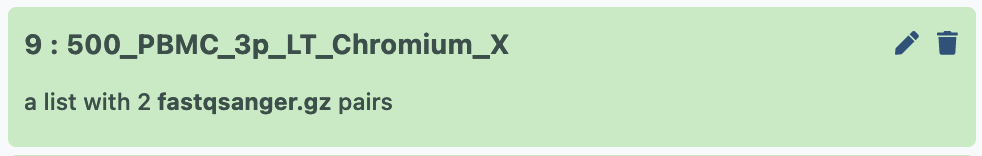
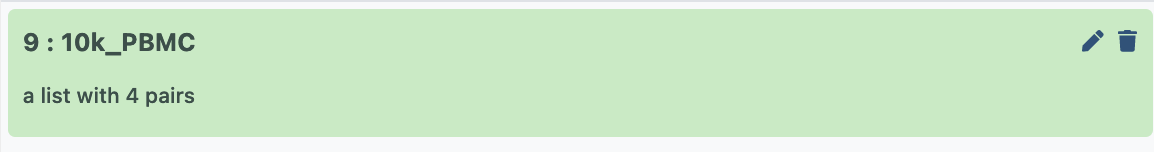
Fixing lowres screenshote, update for v1 of starsolo portion of workflow. cellranger / counts matrix placeholders

diff --git a/pages/scrnaseq_wf_guide.md b/pages/scrnaseq_wf_guide.md
@@ -34,9 +34,7 @@ For single sample experiments, there are streamlined workflows that runs all 3 s
 * **Single sample workflow (StarSOLO):** [import](https://usegalaxy.org.au/workflows/trs_import?trs_server=workflowhub.eu&trs_id=465&trs_version=2)  This workflow loads counts matrix, does some basic processing, suitable for a single sample.
 
 
-
 These workflows are all available on galaxy australia.
-
 
 # Background
 
@@ -45,6 +43,9 @@ There are many general resources online about the principals of single cell anal
 General information on **using galaxy** can be found on the [galaxy training website](https://training.galaxyproject.org/training-material/)
  
 For more general information about **single cell RNAseq processing on galaxy**; there are some excellent tutorials to be found here on the [galaxy training website scRNA section](https://training.galaxyproject.org/training-material/topics/single-cell/). The workflow implemented here is heavily influenced by the [Clustering 3kPBMCs with Scanpy tutorial](https://training.galaxyproject.org/training-material/topics/single-cell/tutorials/scrna-scanpy-pbmc3k/tutorial.html )
+
+
+{% include callout.html type="note" content="These workflows will not currently work with the fastq data from 10X's probe based 'Gene expression Flex' kits, only sequence based kits." %}
 
 # Analysis overview
 
@@ -70,7 +71,8 @@ When run in full, these workflows produce the following main outputs
 
 This diagram shows how the different workflows work together - the choice depends on whether you have a single or multiple samples, or are using CellRanger or StarSOLO. 
 
-![workflow options](./images/workflow_options.png)
+{% include image.html file="/workflow_options.png" max-width="6" %}
+
 
 ## Prepare your fastq inputs
 
@@ -87,23 +89,23 @@ You may also have I1 and I2 fastq datasets, but these are indicies not used in t
 
 1. Load the _R1 and _R2 fastq files into your galaxy history. See [guide to loading data](https://galaxyproject.org/support/loading-data/) for details.
 
-2. Select the fastq files that make up one biological sample. Typically this may be 2 files (R1 and R2), in this case, it is 2. 
+2. Select the fastq files that make up one biological sample. Typically this may be 2 files (R1 and R2), in this case, there are 4. 
 
     a. Click the 'tick in a box' select files button at the top of the history (dataset) panel.
     b. Checkboxes appear for all history items - check the specific files needed.
-    c. There will be a dropdown button at the top of the history panel - 'x of y Selected' - hit this, and select 'Build list of dataset pairs' 
+    c. There will be a dropdown button at the top of the history panel - 'selected' - hit this, and select 'Build list of dataset pairs' 
 
 ![Selecting fastqs for collection](./images/pair_collection_fastq_select.png)
 
-3. This brings up a new window to indicate the forward and reverse reads. In this case, we need to update the 'Forward' box to '_R1' and the reverse to '_R2'. These identifiers are then found in the filenames.
+3. This brings up a new window to indicate the forward and reverse reads. It may initially say that it cannot create any pairs. In this case, we need to update the 'Forward' box to '_R1' and the reverse to '_R2'. These identifiers are then found in the filenames.
 
 ![Pairing the collection](pair_collection_pairing.png)
 
-4. Hit 'pair all samples' and now they are highlighed green as below.
+4. Hit 'auto-pair' and now they are highlighed green as below.
 
 ![Paired collection](pair_collection_paired.png)
 
-5. Hit 'create collection', and now a paired collection will be visible in your history as below;
+5. Give it a sensible name, then hit 'create collection', and now that paired collection will be visible in your history as below;
 ![collection in history](fastqcollection.png)
 
 
@@ -139,7 +141,7 @@ You can supply links to that data directly to a galaxy history via `upload data 
 
 2. Import the **Single sample workflow (StarSOLO):** (listed above) This workflow will include a couple of sub workflows.
 
-3. Hit run to bring up the following launch form. You'll be prompted to customise any filtering parameters, and choose a sensible name for the biological sample. 
+3. Hit run to bring up the following launch form. The first option _'paired fastqs for one sample'_ should be the paired collection you created and named above. You'll also be prompted to customise any filtering parameters, and choose a sensible name for the biological sample.
 
 ![Single Sample Launch prompt](./images/screen_single_sample_starsolo_launch.png)
 
@@ -151,8 +153,8 @@ _User Menu > Workflow Invocations_
 
 This brings up the history of workflow invocations. This particular workflow runs a number of sub-workflows. The **Cell QC** and **QC to Basic Processing** subworkflows produce reports, which can be viewed shared and saved.
 
-* Cell QC : Generates the cell level QC plots  
-* QC to Basic Processing: Shows the subsequent UMAP, clustering and marker information. Includes links to download the processed AnnData object for downstream work 
+* Cell QC : Generates the cell level QC plots. [(example)](https://usegalaxy.org.au/u/s.williams/p/invocation-report-ede7b160ea86b66e) 
+* QC to Basic Processing:  Shows the subsequent UMAP, clustering and marker information. Includes links to download the processed AnnData object for downstream work . [(example)](https://usegalaxy.org.au/u/s.williams/p/invocation-report-21aa7559fbcd167e)
 
 ![workflow invocations screen](./images/screen_invocations.png)
 
@@ -163,20 +165,40 @@ With multi-sample experiments, each sample is loaded independently and then comb
 
 ![subworkflows](./images/workflow_diagram_large.jpg)
 
-1. Upload the raw data for one sample. Then run The ‘scRNAseq: Load counts matrix’ workflow – this will prompt you for a sample name that will be used throughout. 
+
+
+1. Upload the raw data for one sample. There are 3 options for the first step, but after that the process is the same.
+
+-------
+
+**Option 1: Cell Ranger** 
+
+TBA.
+
+**Option 2: StarSOLO** If you have fastq files and want to use starSOLO. 
+
+Run the 'scrnaseq: Count and Load with starSOLO workflow.' The options are a subset of those listed for the single-sample workflow, with the same inputs. 
+
+![Load counts matrix launch](./images/screen_counts_and_load_starsolo_launch.png)
+
+
+
+
+
+**Option 3: Counts matrix** If you already have a counts matrix then run The ‘scRNAseq: Load counts matrix’ workflow – this will prompt you for a sample name that will be used throughout. 
 
 ![Load counts matrix launch](./images/screen_load_counts_matrix_launch.png)
 
 {% include callout.html type="note" content="Older datasets will have genes.tsv(.gz), where as newer dataset will have features.tsv(.gz). Either works" %}
 
-
-
 {% include callout.html type="note" content="Sometimes, if you have an uncompressed barcodes.tsv file, galaxy will determine that it is a text file, rather than the desired '.tabular', which will prevent it from being selected as input (will be missing from the dropdown). This is fixed by manually telling galaxy to change the datatype to .tabular. [Instructions](https://training.galaxyproject.org/training-material/faqs/galaxy/datasets_change_datatype.html)" %}
-
 
 This part of the workflow will load the counts matrix into an AnnData object, and then adds an extra column in the metadata called ‘sample’. This means the sample information can be tracked when multiple samples are combined. 
 
-The AnnData object that it produces in your history will probably be named something like ‘Manipulate AnnData (add_annotation) on data 20 and data 17’. You may choose to rename this object via the ‘edit attributes’ option in the history panel, so its easier to find later. 
+------
+Any option outputs an AnnData object in you history - containing your counts and annotated with the sample name internally.
+
+That object in your history will probably be named something like ‘Manipulate AnnData (add_annotation) on data 20 and data 17’. You may like to rename this object via the ‘edit attributes’ option in the history panel, so its easier to find later. 
 
 ![rename](./images/screen_rename.png)
 
@@ -200,7 +222,7 @@ A combined AnnData object will created in your history.
 
 4. Next, run the **scRNAseq Cell QC** workflow on your combined AnnData object.  
 
-This workflow plots some basic cell-level QC thresholds, and applies the QC thresholds to produce a filtered AnnData object.  
+This workflow plots some basic cell-level QC thresholds, and applies the QC thresholds to produce a filtered AnnData object. Configure thresholds as appropriate.
 
 ![](./images/screen_cellQC_launch.png)
 
@@ -211,7 +233,7 @@ You’ll notice you can see each sample plotted separately in the QC plots. You 
 ![](./images/cell_qc_plot.png)
 
 
-6. If you are happy with the filtering thresholds, you can  launch the next workflow, **scRNAseq QC to Basic Processing** to do some routine single cell calculations.  It only asks for the filtered AnnData Object (typically the last AnnData in your history, with a name ending in ‘Filtered Cells AnnData’.) 
+6. If you are happy with the filtering thresholds, you can launch the next workflow, **scRNAseq QC to Basic Processing** to do some routine single cell calculations. It only asks for the filtered AnnData Object (typically the last AnnData in you history, which may be named something like 'scanpy scrublet on data x') 
 
 ![launch basic processing](./images/screen_qc_to_basic_processing_launch.png)
 
@@ -234,20 +256,17 @@ The AnnData object generated is ready for analysis! Options include
   + Many scanpy functions are available within galaxy (and are used within this workflow). Explore the [galaxy scRNAseq tutorials](https://training.galaxyproject.org/training-material/topics/single-cell/) for more information
   + Or, you download your AnnData object and work with the scanpy toolkit directly, using python on your computer or other server. This can provide more fine-grained control of your analysis. There are [many tutorials](https://scanpy.readthedocs.io/en/stable/tutorials.html) to work from.
 
-Note that there are toolkits other than scanpy (e.g. Seurat, SingleCellExperiment objects) which may not be directly compatible without conversions.
+Note that there are toolkits other than scanpy (e.g. Seurat, SingleCellExperiment objects) which are not directly compatible without conversions.
 
 
 
-## STAR Solo vs Cell Ranger
+## Input options: STAR Solo vs Cell Ranger vs counts matrix
 
 Within these workflows, there are two options for generating a counts matrix from fastq sequence data (counting copies per gene per cell); 
 
 * CellRanger: Developed by 10X genomics, this is a widely used package that works for 10X genomics data. Usage is subject to licence conditons (see Licenses section) and available only to registered users. Currenlty only the inbuilt human and mouse references are avaliable.  CellRanger will also output a '.cloupe' file, which may be used with the 'cell loupe' desktop program.
-
 * StarSOLO: An open source alternative, which can be configured to support different sequencing technologies. The current implementation works multiple species (subject to reference annotations).
-
-NB: These workflows will not currently work with 'Gene expression Flex' kits, only sequence based. 
-
+* Counts matrix: Sometimes you already have a counts matrix - these are available for many public datasets already. Or, if you are using data from probe-based kits (e.g. 10X fixed rna kit), you'll need to get your counts matrix as described by the manufactuer.
 
 
 # Licenses
